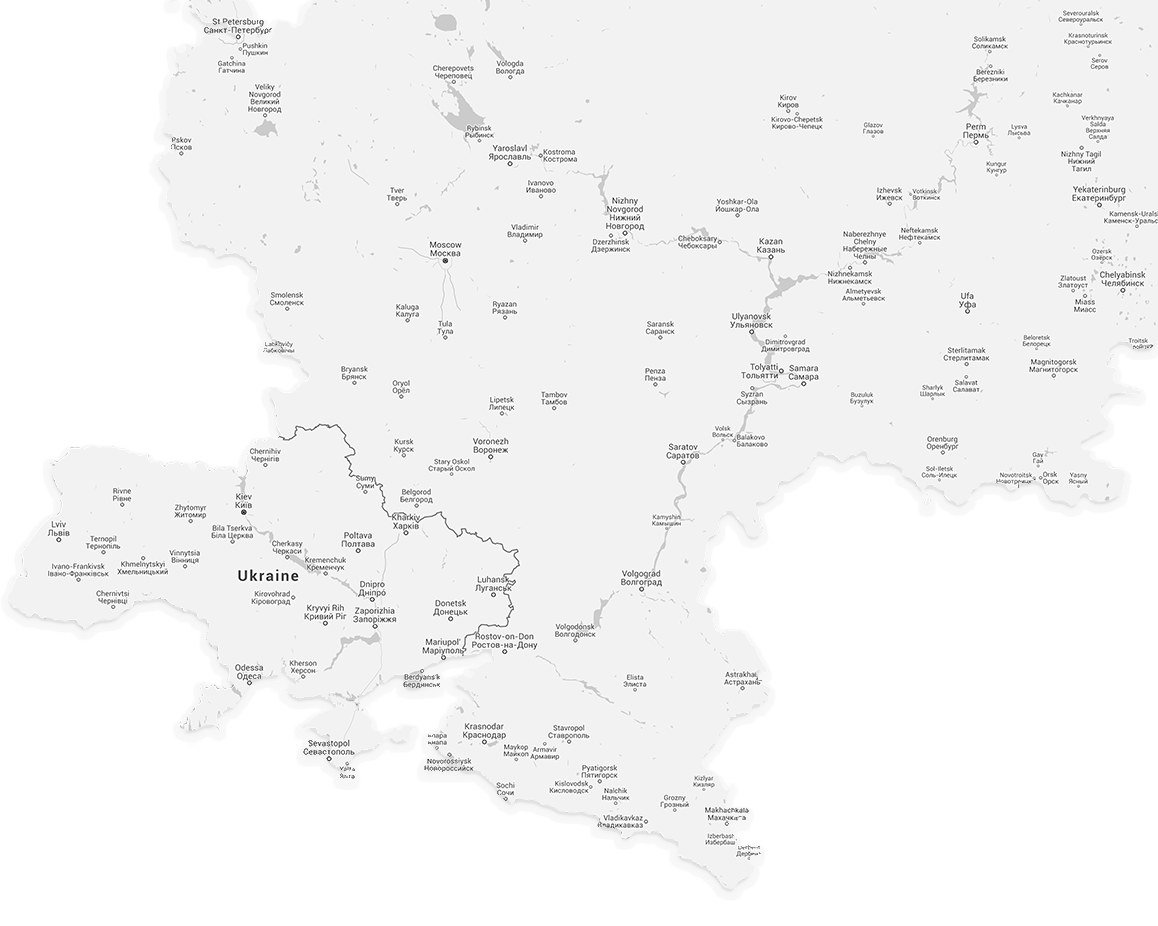
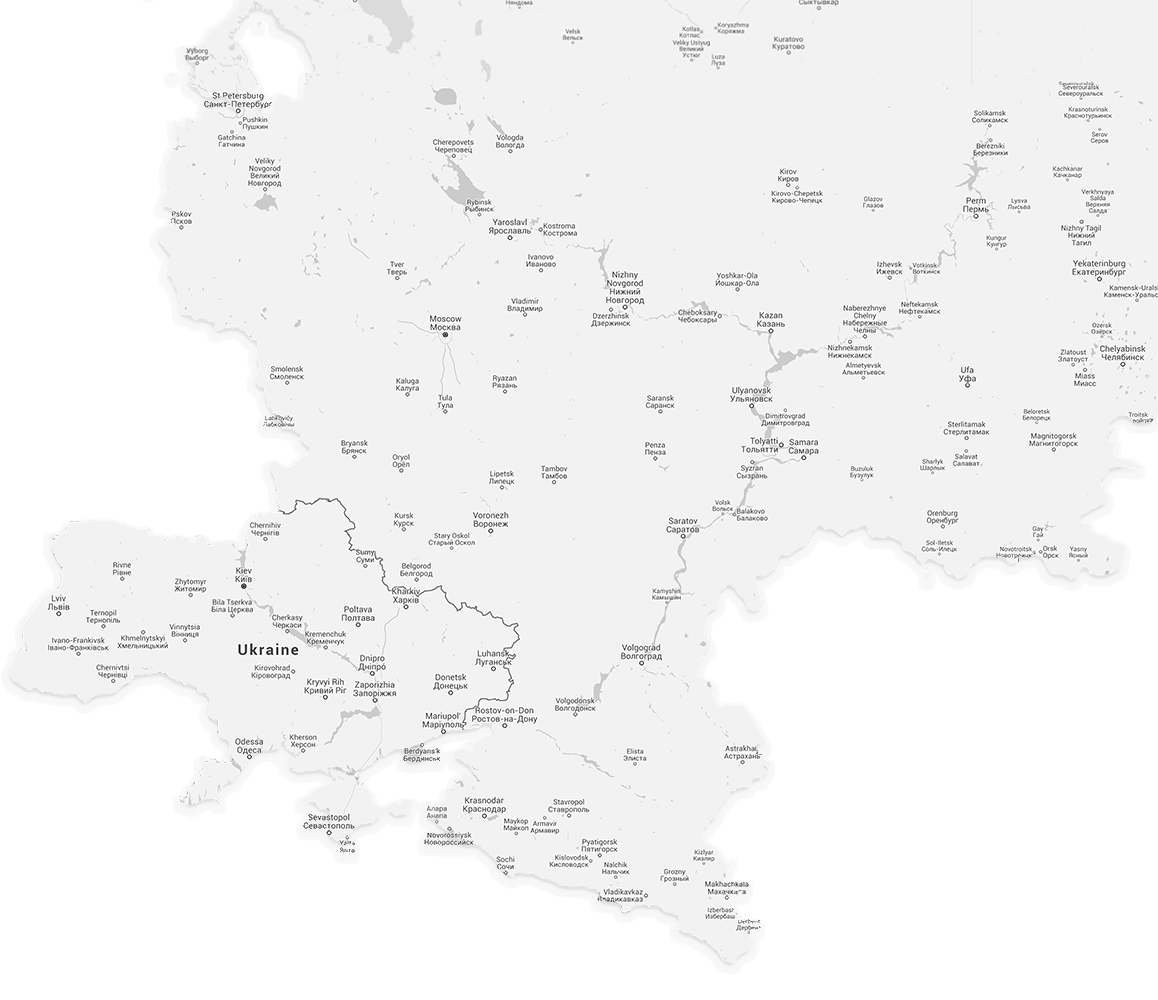
landing improvements

diff --git a/public/styles/landing.scss b/public/styles/landing.scss
@@ -15,23 +15,30 @@ body {
 }
 
 header {
-    height:     calc(100vh - 50px);
-    min-height: 900px;
+    height: 1020px;
 }
 
 main {
     flex: 1;
 }
 
-footer {
+.footer {
     display:         flex;
     justify-content: space-between;
     align-items:     center;
 
-    padding:         50px;
+    padding:         20px 50px;
     font-size:       12px;
     background:      #171E28;
     color:           #AFB6BC;
+}
+
+.footer__logo {
+    display:         inline-block;
+    width:           70px;
+    height:          100px;
+    background:      transparent url("/images/landing/pointer.png");
+    background-size: cover;
 }
 
 .header__arrow,
@@ -73,13 +80,12 @@ footer {
 }
 
 .header__bg {
-    background:      #171e28 url("https://images.unsplash.com/photo-1428200698796-38743f953a43?ixlib=rb-0.3.5&q=80&fm=jpg&crop=entropy&s=4ba2cfe3e298784ac3962ab7bf8d99b1");
-    background-size: contain;
-    transition:      0.4s cubic-bezier(1, -1, 0, 2);
-    clip-path:       polygon(0 0, 100% 0, 100% 40%, 50% 80%, 0 40%);
+    background:     #1b2531 url("/images/landing/header_ball.jpg") center top no-repeat;
+    transition:     0.4s cubic-bezier(1, -1, 0, 2);
+    clip-path:      polygon(0 0, 100% 0, 100% 40%, 50% 80%, 0 40%);
 
-    display:         flex;
-    flex-direction:  column;
+    display:        flex;
+    flex-direction: column;
 }
 
 .header__title {
@@ -145,7 +151,7 @@ footer {
 .section-join,
 .section-map,
 .section-plans {
-    height:          900px;
+    height:          800px;
     padding:         0 50px;
     background:      #fff url("/images/landing/join.jpg");
     background-size: cover;
@@ -254,6 +260,10 @@ footer {
     background:      #fff url("/images/landing/members.jpg");
     background-size: cover;
 
+    position:        relative;
+    z-index:         2;
+    clip-path:       polygon(0 0, 100% 0, 100% 95%, 0 100%);
+
     display:         flex;
     flex-direction:  column;
     align-items:     center;
@@ -303,7 +313,7 @@ footer {
 
 .section-members__list {
     display:       flex;
-    margin-bottom: 60px;
+    margin-bottom: 100px;
 }
 
 .section-members__item-wrapper {
@@ -462,8 +472,9 @@ footer {
 
 .section-map {
     position:   relative;
-    height:     900px;
+    height:     980px;
     padding:    0 30px;
+    margin-top: -80px;
     background: transparent url("/images/landing/map.png") right top no-repeat;
 
     &::before {
@@ -474,7 +485,7 @@ footer {
         right:      0;
         bottom:     0;
         z-index:    -1;
-        background: #fff url("/images/landing/map-abstract.jpg") -780px 400px no-repeat;
+        background: #fff url("/images/landing/map-abstract.jpg") -320px 500px no-repeat;
     }
 }
 
@@ -483,14 +494,18 @@ footer {
         padding: 0 80px;
 
         &::before {
-            background-position: -720px 360px;
+            background-position: -180px 480px;
         }
     }
 }
 
-@media (min-width: 1600px) {
+@media (min-width: 1560px) {
     .section-map {
         padding: 0 80px;
+
+        &::before {
+            background-position: -40px bottom;
+        }
     }
 }
 
@@ -499,7 +514,16 @@ footer {
     width:         540px;
     background:    rgba(255, 255, 255, .5);
     border-radius: 20px;
-    z-index:       1;
+    z-index:       3;
+}
+
+.section-map__pointers {
+    position: absolute;
+    left:     0;
+    top:      0;
+    right:    0;
+    bottom:   0;
+    z-index:  2;
 }
 
 .section-map__pointer {
@@ -533,49 +557,65 @@ footer {
     }
 
     &.section-map__pointer_type_moscow {
-        top:             156px;
+        top:             226px;
         right:           685px;
 
         animation-delay: .52s;
     }
     &.section-map__pointer_type_spb {
-        top:             -67px;
+        top:             3px;
         right:           893px;
 
         animation-delay: .87s;
     }
     &.section-map__pointer_type_kiev {
-        top:             406px;
+        top:             476px;
         right:           887px;
 
         animation-delay: .34s;
     }
     &.section-map__pointer_type_ekb {
-        top:             100px;
+        top:             170px;
         right:           31px;
 
         animation-delay: .66s;
     }
     &.section-map__pointer_type_anapa {
-        top:             644px;
+        top:             714px;
         right:           694px;
 
         animation-delay: 1s;
     }
     &.section-map__pointer_type_sochi {
-        top:             697px;
+        top:             767px;
         right:           625px;
 
         animation-delay: .91s;
     }
     &.section-map__pointer_type_kazan {
+        top:             223px;
         right:           358px;
-        top:             153px;
 
         animation-delay: .37s;
+
+        &::after {
+            transform:        rotate(8deg);
+            transform-origin: 50% 100%;
+        }
+    }
+    &.section-map__pointer_type_ola {
+        top:             184px;
+        right:           394px;
+
+        animation-delay: .97s;
+
+        &::after {
+            transform:        rotate(-8deg);
+            transform-origin: 50% 100%;
+        }
     }
     &.section-map__pointer_type_rostov {
-        top:             548px;
+        top:             618px;
         right:           626px;
 
         animation-delay: 1.2s;
@@ -583,12 +623,74 @@ footer {
 }
 
 // ====================================================== //
+//                   Section devices                      //
+// ====================================================== //
+
+.section-devices {
+    height:          660px;
+    margin-top:      -20px;
+
+    color:           #fff;
+    background:      #1a2430 url("/images/landing/plans.jpg");
+    background-size: cover;
+    clip-path:       polygon(0 0, 100% 7%, 100% 100%, 0 100%);
+
+}
+
+.section-devices__devices {
+}
+
+.section-devices__book {
+    width:      570px;
+    height:     694px;
+    background: transparent url("/images/landing/book.png");
+}
+
+.section-devices__phone {
+    width:      120px;
+    height:     320px;
+    background: transparent url("/images/landing/phone.png");
+}
+
+// ====================================================== //
 //                    Section plans                       //
 // ====================================================== //
 
 .section-plans {
-    background:      transparent url("/images/landing/plans.jpg");
+    padding:         120px 0;
+    color:           #fff;
+    background:      #1a2430 url("/images/landing/plans.jpg");
     background-size: cover;
+    clip-path:       polygon(0 0, 100% 7%, 100% 100%, 0 100%);
+
+    display:         flex;
+    flex-direction:  column;
+    justify-content: space-around;
+    align-items:     center;
+}
+
+.section-plans__title {
+    font-size:      48px;
+    text-transform: uppercase;
+}
+
+.section-plans__text {
+    width:       600px;
+    line-height: 2;
+    font-size:   13px;
+    text-align:  center;
+    text-shadow: 0 1px #000;
+    position:    relative;
+
+    &::after {
+        content:       "";
+        display:       block;
+        position:      absolute;
+        width:         300px;
+        bottom:        -60px;
+        margin:        0 150px;
+        border-bottom: 1px solid #5f6a75;
+    }
 }
 
 // ====================================================== //
